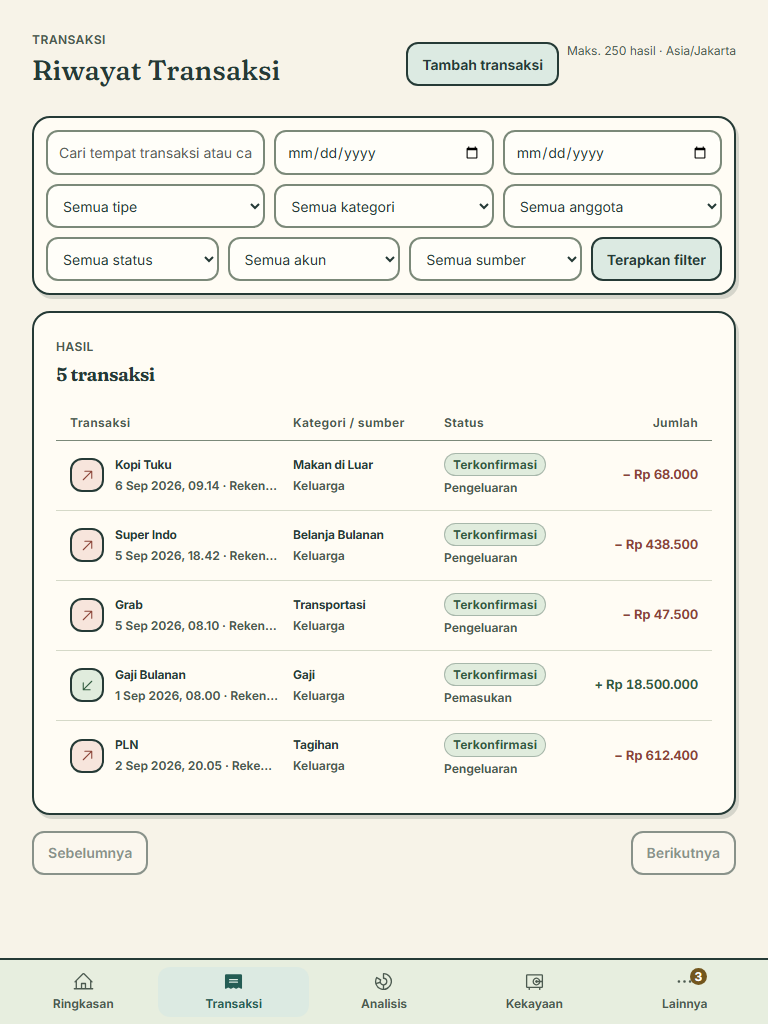
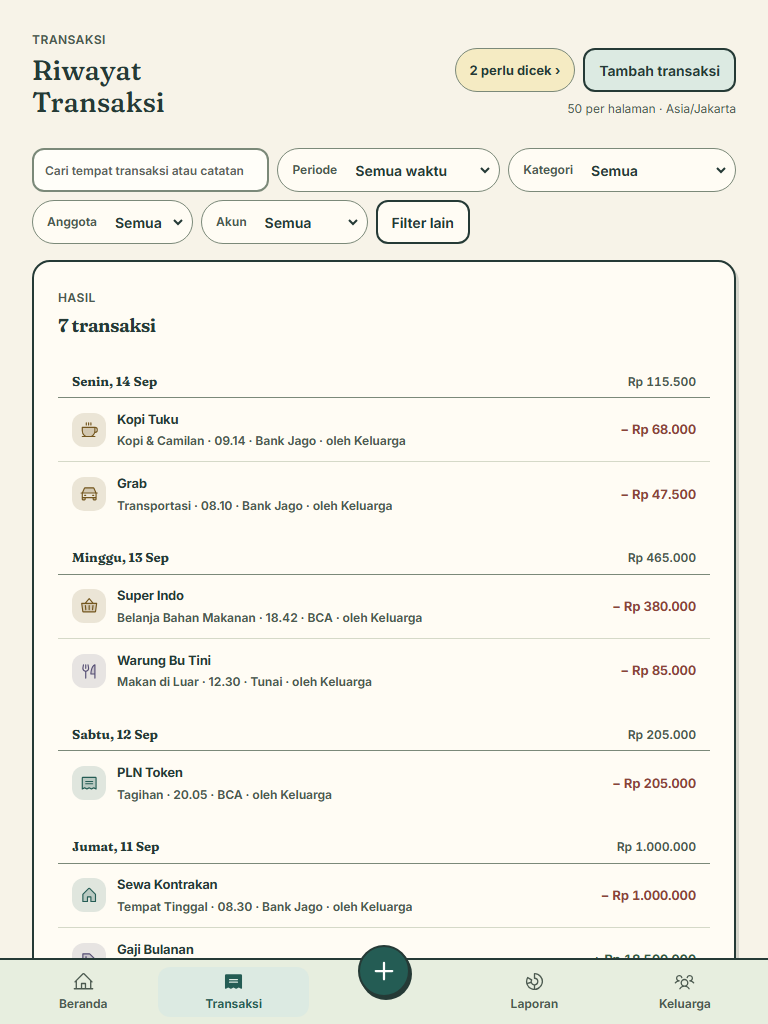
docs: refresh README showcase and capture script for the redesigned UI

diff --git a/docs/runbooks/readme-showcase.md b/docs/runbooks/readme-showcase.md
@@ -2,7 +2,7 @@
 
 ## Purpose
 
-The capture script produces eight product screenshots. `README.md` shows three of them (dashboard, review inbox, phone dashboard):
+The capture script produces eight product screenshots of the redesigned UI. `README.md` shows six of them in two rows: **Beranda** (`dashboard.png`), **Perlu dicek** (`review-inbox.png`, one-tap category answers), the phone Beranda (`dashboard-mobile.png`), **Laporan › Arus kas** (`analytics.png`), **Laporan › Kekayaan** (`wealth.png`) and the day-grouped **Transaksi** ledger on a tablet (`transactions-tablet.png`). The landing and login images are captured for `docs/assets/` only:
 
 - `docs/assets/landing.png`
 - `docs/assets/login.png`
@@ -18,10 +18,12 @@ at `apps/web/scripts/capture-readme.mjs` and uses fixed synthetic API fixtures.
 It never connects to production, sends credentials, reads `finance.env`, or
 uses a real browser session.
 
-Analytics capture uses `tests/fixtures/cycle-review.mjs`, shared with the
-synthetic browser regression suite. It waits for the deterministic **Posisi
-siklus** heading instead of merely the authenticated shell; the old advice
-fixture is retired. CI's `cycle-review-screenshots` artifact also contains
+Laporan › Arus kas capture uses `tests/fixtures/cycle-review.mjs`, shared with the
+synthetic browser regression suite, including its Go-computed `takeaways`. Each
+shot waits for a deterministic element (the Beranda hero figure, **Masuk kategori
+apa?**, **Ke mana uangnya**, **Kekayaan bersih**, the first ledger day) plus
+`document.fonts.ready`, so no image shows a loading skeleton, and it fails on any
+unexpected 4xx response. CI's `cycle-review-screenshots` artifact also contains
 `readme-analytics.png` (1440×1050) from the verified current page. That generated
 asset can replace `docs/assets/analytics.png` without a host-local build.
 
@@ -107,9 +109,10 @@ outside the worktree.
 
 ## Without Docker
 
-Docker is preferred, but a disposable worktree can also capture directly. Keep the
-browser download inside the worktree so cleanup removes it, build the app, serve
-it on the unused port, capture, then stop the server:
+Docker is preferred, but a disposable worktree can also capture directly with
+the static export. Keep the browser download inside the worktree so cleanup
+removes it, build the app, serve the export on the unused port, capture, then
+stop the server:
 
 ```bash
 cd apps/web
@@ -117,12 +120,12 @@ export PLAYWRIGHT_BROWSERS_PATH="$PWD/node_modules/.playwright-browsers"
 npm ci --ignore-scripts --no-audit --no-fund
 npx playwright install chromium
 npm run build
-npm run start -- -p 3002 &
+PORT=3002 node scripts/static-server.mjs &
 RICHMOD_SCREENSHOT_URL=http://127.0.0.1:3002 npm run capture:readme
+kill %1
 ```
 
-Stop the server afterwards (it is the process listening on port `3002`). Then
-remove the worktree as described under cleanup; the browser download goes with it.
+Remove the worktree as described under cleanup; the browser download goes with it.
 
 ## Verify before committing
 
@@ -141,7 +144,7 @@ file docs/assets/landing.png \
   docs/assets/transactions-tablet.png
 ```
 
-Run the web checks from the repository-root mount. Product alignment tests read
+From the repository root, `node scripts/check-comments.mjs` must exit 0: the capture script carries no code comments. Run the web checks from the repository-root mount. Product alignment tests read
 source outside `apps/web`, so mounting only that directory is insufficient.
 
 ```bash

diff --git a/README.md b/README.md
@@ -13,9 +13,13 @@ Self-hosted household finance: email, Telegram and documents go into one ledger,
 
 </div>
 
-| Dashboard | Review Inbox | Phone |
+| Beranda | Perlu dicek | Phone |
 | --- | --- | --- |
-| ![Richmod household dashboard](docs/assets/dashboard.png) | ![Richmod Review Inbox](docs/assets/review-inbox.png) | ![Richmod dashboard on a phone](docs/assets/dashboard-mobile.png) |
+| ![Beranda: salary-cycle balance, cycle comparison and daily spending](docs/assets/dashboard.png) | ![Perlu dicek: one-tap, history-ranked category answers](docs/assets/review-inbox.png) | ![Beranda on a phone with the floating add button](docs/assets/dashboard-mobile.png) |
+
+| Laporan · Arus kas | Laporan · Kekayaan | Transaksi (tablet) |
+| --- | --- | --- |
+| ![Laporan Arus kas: cycle KPIs, takeaways and category breakdown](docs/assets/analytics.png) | ![Laporan Kekayaan: net worth, what changed and composition](docs/assets/wealth.png) | ![Transaksi: day-grouped ledger on a tablet](docs/assets/transactions-tablet.png) |
 
 The screenshots use synthetic data. To regenerate them, see the [README showcase runbook](docs/runbooks/readme-showcase.md).
 
@@ -50,8 +54,10 @@ Email arrives through Cloudflare Email Routing; see the [Cloudflare email ingres
 - Takes forwarded bank and provider notification emails through a household-scoped address, without bank credentials.
 - Records transactions, answers questions and resolves reviews over Telegram.
 - Reads receipts, payslips, invoices, screenshots and transfer proofs through one document pipeline.
-- Sends ambiguous facts to the Review Inbox instead of guessing.
-- Shows salary-cycle analytics and Wealth snapshots of assets, liabilities and net worth over time.
+- Sends ambiguous facts to **Perlu dicek** instead of guessing. Each card asks one question with history-ranked one-tap answers, an inline **Urungkan** to reopen a decision, and opt-in merchant learning ("Ingat untuk ...").
+- Gives four permanent places (**Beranda**, **Transaksi**, **Laporan** with *Arus kas* and *Kekayaan* tabs, and **Keluarga**), plus **Perlu dicek** when something waits and a global **+ Catat** sheet for fast entry and multi-image upload.
+- Shows a day-grouped ledger with inline merchant alias rename and an audited source timeline.
+- Computes salary-cycle analytics, takeaway sentences and a direction-safe category palette in Go, and records Wealth snapshots of assets, liabilities and net worth over time.
 - Keeps source evidence attached to each decision so the ledger stays auditable.
 
 ## Safety rules
@@ -91,6 +97,7 @@ Further households are added by a Super Admin or with `/bootstrap --new-househol
 ## Develop
 
 ```bash
+node scripts/check-comments.mjs
 cd apps/web && npm ci && npm test && npm run build
 cd apps/api && go test ./... && go vet ./...
 cd apps/worker && go test ./... && go vet ./...

diff --git a/docs/README.md b/docs/README.md
@@ -23,11 +23,11 @@ were removed from the tree and are recoverable from git history.
 | [`runbooks/stuck-source-events.md`](runbooks/stuck-source-events.md) | Detecting source events shown as needing review that have no reachable review item (#356) |
 | [`runbooks/cloudflare-email-ingress.md`](runbooks/cloudflare-email-ingress.md) | The email transport: Workers, R2, Queue, HMAC contract, forwarding setup |
 | [`runbooks/cloudflare-email-cli.md`](runbooks/cloudflare-email-cli.md) | The same Cloudflare setup and its live checks as `cf` and Wrangler commands |
-| [`runbooks/readme-showcase.md`](runbooks/readme-showcase.md) | Regenerating the README screenshots from synthetic data |
+| [`runbooks/readme-showcase.md`](runbooks/readme-showcase.md) | Regenerating the README screenshots (Beranda, Perlu dicek, Laporan, Transaksi) from synthetic data |
 
 ## Architecture and data
 
-- [`adr/`](adr/README.md): the architecture decision log, one short entry per decision. Add an entry for a material architecture or infrastructure change.
+- [`adr/`](adr/README.md): the architecture decision log, one short entry per decision (ADR-001 to ADR-112). Add an entry for a material architecture or infrastructure change.
 - [`DATABASE_SCHEMA.md`](DATABASE_SCHEMA.md): schema reference and ERD. Schema changes update it in the same branch.
 - [`STATE_MACHINES.md`](STATE_MACHINES.md): every status machine, its legal moves, and where each rule is enforced.
 
